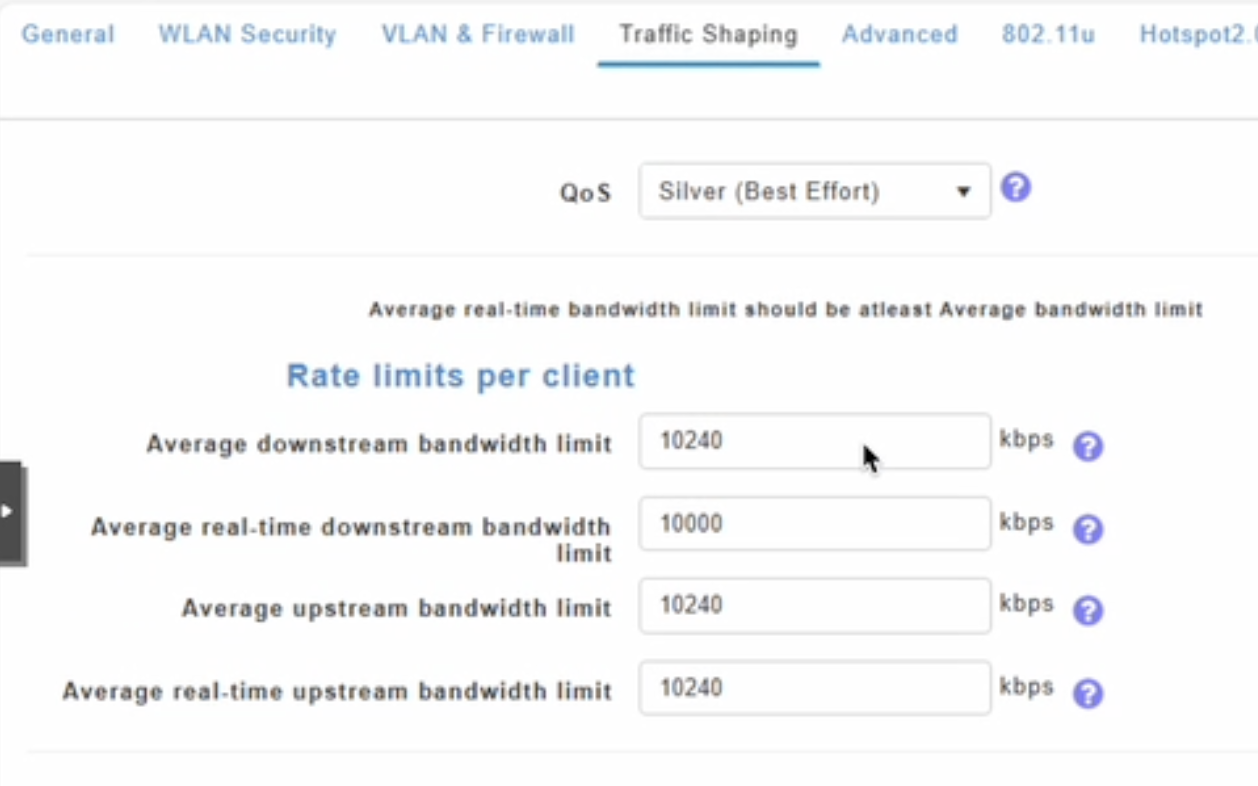
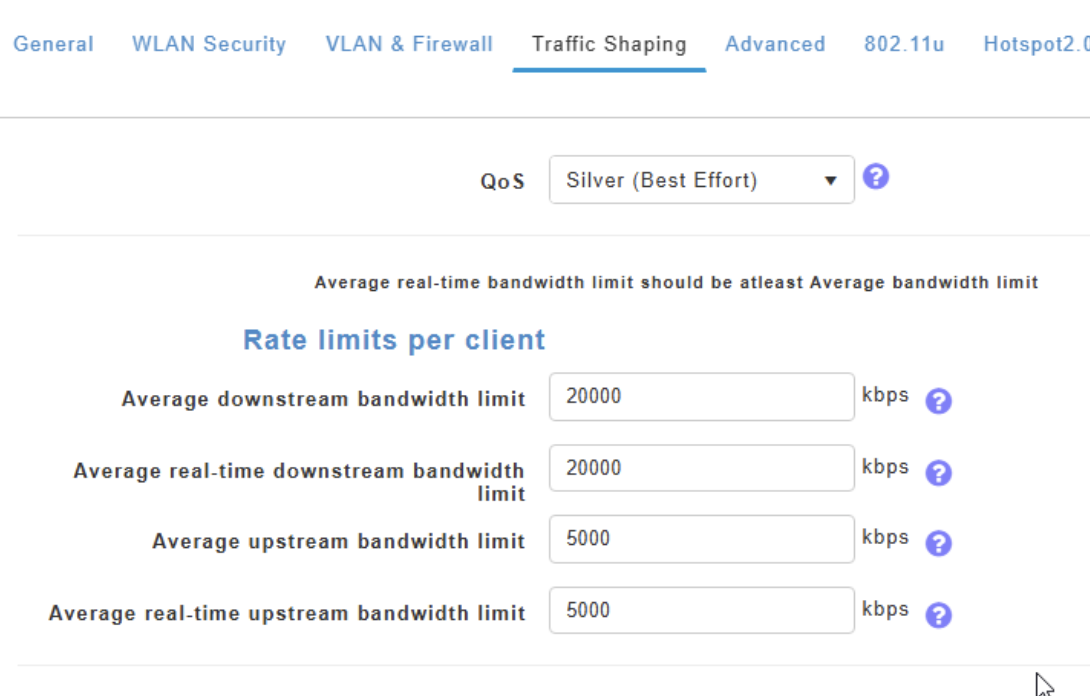
Final version for lab 02 dot1x documentation

diff --git a/labs/01-basic-setup/backup-Readmd.md b/labs/01-basic-setup/backup-Readmd.md
@@ -1,0 +1,89 @@
+
+# Lab 01 
+----------------------------------------------------------------------------------------------------------	
+
+Setup a basic lab including the following components:
+- Proxmox running on mini pc
+- Server 2025 VM
+- Windows 11 client VM
+- Fortigate 60F firewall
+
+I will be building upon this lab in the future e.g Intergating a Switch, AP to practice some network related techonlogies.
+----------------------------------------------------------------------------------------------------------	
+
+Topology:
+- ![Topology](../../images/lab01/topology.png).
+----------------------------------------------------------------------------------------------------------	
+
+		Proxmox setup:
+- created a new virtual bridge on proxmox which in this case was vmbr10.
+![Proxmox vmbr10 configuration](../../images/lab01/bridge_setup.png).
+- SSH, into the proxmox, created backup of /etc/networtk/interfaces using 'cp' in case needed to rollback.
+![creating a backup](../../images/lab01/network-interface-backup.png).
+- bind vmbr10 to the ethernet interface, made it vlan aware, add vlan 10,20,30  and applied changes.
+----------------------------------------------------------------------------------------------------------	
+	Windows Server 2025 setup:
+- Changed computer name to Got-SRV-01 and rebooted
+- configured the network settings with the following:
+![Proxmox vmbr10 configuration](../../images/lab01/network-settings.png).
+-Installed Active Direcotry Domain Services, DNS Server,DHCP, and rebooted.
+-Promoted the server, and selected 'Add a new forest'
+-Set the Root Domain name to GoT.local and rebooted.
+![Proxmox vmbr10 configuration](../../images/lab01/server-settings.png).
+-Launched Active Directory Users and Computers
+-Under GoT.local, right cliked new OU and named it as Starks
+-Inside starks OU, cliked on the create user icon and creatd a user called Ned Stark.
+-Created two groups inside starks OU, Male, and Female.
+![OU creation](../../images/lab01/OU-creation.png).
+
+-Launched the DHCP management console, under actions clicked on authorize.
+-Right cliked the IPv4 and created new scope.
+-Defined the range of 10.10.10.100-10.10.10.200.
+-in scope options made sure 003 router is 10.10.10.1, 006 is 10.10.10.10
+
+- Right clicked the IPv4 and created two new scopes.
+![DHCP Scopes](../../images/lab01/DHCP-Scope-creation.png)
+![DHCP Scopes](../../images/lab01/DHCP-VLAN10-01.png)
+![DHCP Scopes](../../images/lab01/DHCP-VLAN10-02.png)
+
+![DHCP Scopes](../../images/lab01/DHCP-VLAN20-01.png)
+![DHCP Scopes](../../images/lab01/DHCP-VLAN20-02.png)
+
+-For both scopes, the starting and ending range is the same.
+-However the scope options, the default gateway is different as they are in two different vlans.
+
+
+----------------------------------------------------------------------------------------------------------	
+	Windows 11 client setup:
+- Configured network settings of windows 11 vm to be set to vmbr10, tagged it with vlan 20.
+- Started the machine, and checked if it obtained the correct settings from dhcp using ipconfig /all
+
+  ![IP config](../../images/lab01/ipconfig.png)
+
+- tested connecivity with ping for both ip and dns.
+- used ctrl + r and typed sysmd.cpl.
+- on computer name tab, clicked change.
+- selected domain, and entered GoT.local
+- Prompoted for administrator crenditials, used from windows server 2025 vm.
+- confirmed success and required reboot.
+- Logged in using ned stark.
+- confirmed vm is on the domain.
+![Client obtained network information via DHCP](../../images/lab01/WM-CLIENT-VLAN20.png)
+
+----------------------------------------------------------------------------------------------------------	
+	Fortigate 60F setup:
+-Configured 2 Vlans under port1 with the following parameters:
+
+Vlan ID	| IP address | Subnetmask    | 
+-------------------------------------|
+10      | 10.10.10.1 | 255.255.255.0 |
+-------------------------------------|
+20      | 10.10.20.1 | 255.255.255.0 |
+-------------------------------------|
+
+- Configured admistrivate acces of ping, https, http, and ssh.
+- Created firewall policy to allow 10.10.10.0/24 to reach internet via wan1 using the nat as the outgoing interface.
+- Connected wan1 to the home router, it reterived ip information via dhcp,
+
+![vlan-sub-interfaces](../../images/lab01/dhcp_relay.png)
+

diff --git a/labs/lab-02-dot1x-setup/Lab-02–dot1x.md b/labs/lab-02-dot1x-setup/Lab-02–dot1x.md
@@ -4,7 +4,7 @@
 
 ## Overview
 
-This lab builds upon **Lab 01**, where the initial components were set up using Proxmox and the Fortigate 60F firewall.  
+This lab builds upon **Lab 01**, where the initial components were set up using Proxmox and the FortiGate 60F firewall.  
 To make the document easier to read, the steps involving initial setup (creating VMs, installing roles and features, setting up the Certificate Authority) have been omitted.  
 
 **Lab Goal:** Implement 802.1X authentication.  
@@ -18,7 +18,7 @@ To make the document easier to read, the steps involving initial setup (creating
 
 **Additional Configurations:**
 - Guest SSID with a captive portal
-- Traffic shaping: max bandwidth 10 Mbps for both upload and download
+- Traffic shaping: max bandwidth 20 Mbps download and 5 Mbps upload
 
 ---
 
@@ -106,7 +106,21 @@ Two templates were created:
 **Images:**
 - ![AP 01](images/lab02-AP-01.png)
 - ![AP 02](images/lab02-AP-02.png)
-- … (up to AP-14)  
+- ![AP 03](images/lab02-AP-03.png)
+- ![AP 04](images/lab02-AP-04.png) 
+
+- ![AP 05](images/lab02-AP-05.png) 
+- ![AP 06](images/lab02-AP-06.png) 
+- ![AP 07](images/lab02-AP-07.png) 
+- ![AP 08](images/lab02-AP-08.png) 
+
+- ![AP 09](images/lab02-AP-09.png)  
+- ![AP 10](images/lab02-AP-10.png) 
+- ![AP 11](images/lab02-AP-11.png) 
+- ![AP 12](images/lab02-AP-12.png) 
+
+- ![AP 13](images/lab02-AP-13.png) 
+- ![AP 14](images/lab02-AP-14.png) 
 
 ---
 
@@ -130,24 +144,38 @@ Two templates were created:
 - WLAN Name: `Guest-lab`
 - Enabled Guest Network and Captive Network Assistant
 - VLAN ID: 30
-- Traffic Shaping: 10 Mbps up/down
+- Traffic Shaping: 20 Mbps down and 5 Mbps UP
 - Tested guest client connection and bandwidth
+- configured Guest Splash Page.
 
 **Images:**
 - ![Guest 01](images/lab02-Guest-01.png)
 - ![Guest 02](images/lab02-Guest-02.png)
 - ![Guest 03](images/lab02-Guest-03.png)
 - ![Guest 04](images/lab02-Guest-04.png)
-
+- ![Guest 05](images/lab02-Guest-05.png)
 ---
 
-## Notes / Next Steps
+## Guest Client Test
 
-- Some sections are placeholders and need further edits:
-  - NPS configuration details for connection request policy
-  - Final testing of Guest SSID splash page
-  - Verification of traffic shaping
-- Draft labeled as **Version 1**  
+- Joined Guest-lab from an iPhone
+- Clicked **Connect** o the captive portal
+- Verified the client received an IP address via DHCP
+- Performed a speed test to confirm taffic shapping was applied
 
+**Images:**
+- ![Guest 06](images/lab02-Guest-06.png)
+- ![Guest 07](images/lab02-Guest-07.png)
+- ![Guest 08](images/lab02-Guest-08.png)
+- ![Guest 09](images/lab02-Guest-09.png)
+- ![Guest 10](images/lab02-Guest-10.png)
+- ![Guest 11](images/lab02-Guest-11.png)
 ---
 
+## Notes
+
+- Dynamic VLAN assignment via RADIUS was initially misconfigured and later resolved by enabling AAA Override on the access point.
+- Future improvements may include:
+  - Separate GPOs instead of Default Domain Policy
+  - Additional NPS policy hardening
+  - Wired 802.1X testing on switch ports
